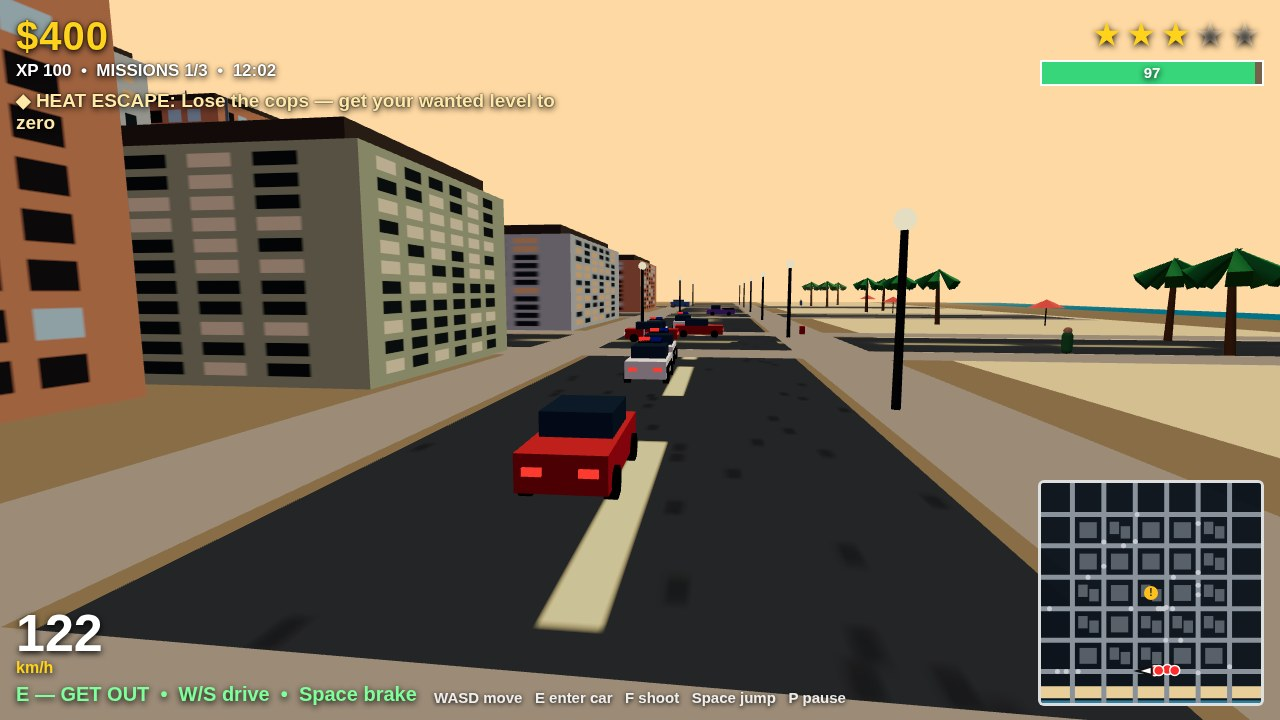
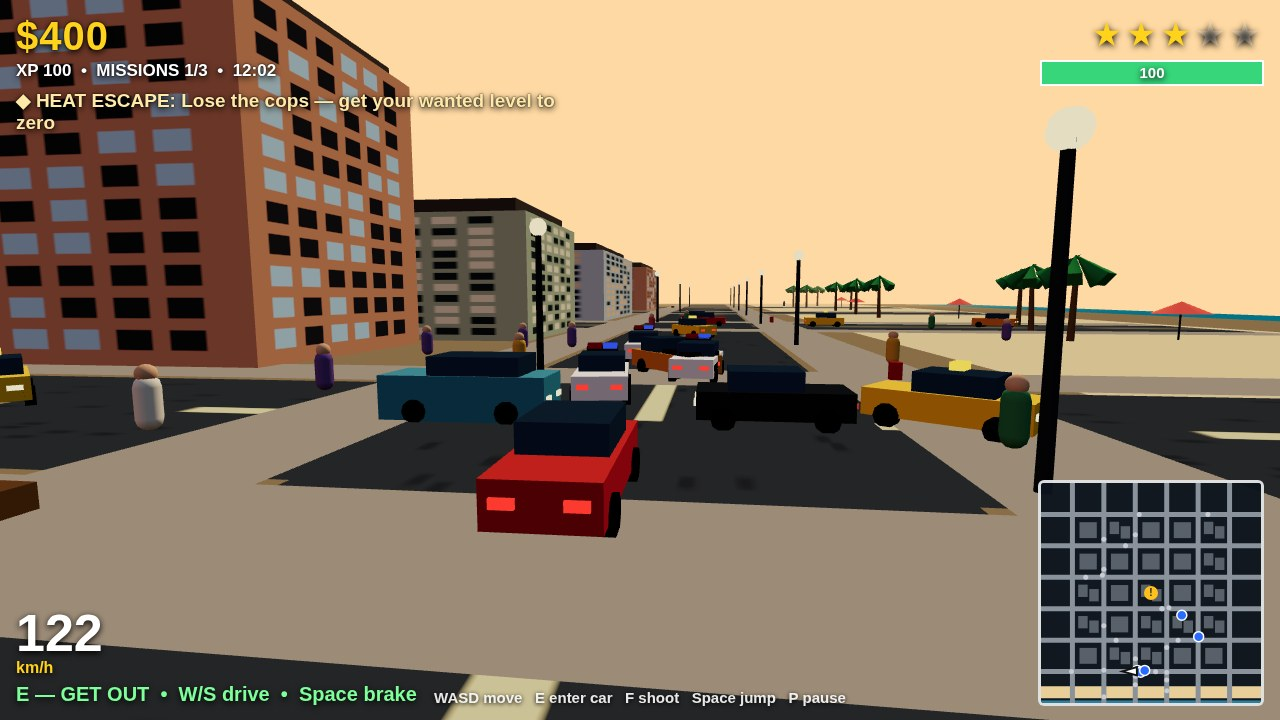
Solmar Bay r2: denser chase + close combat staging

diff --git a/game/src/shots.js b/game/src/shots.js
@@ -1,7 +1,7 @@
 // ?shot= staging: deterministic scene setup + autopilot that plays the real
 // rules from a fixed seed, then leaves the game ready for its screenshot.
 // Nothing here fakes a pose — every shot is the live simulation, advanced.
-import { WORLD } from './config.js';
+import { WORLD, COMBAT } from './config.js';
 import { stepWorld, startGame } from './world.js';
 import { spawnParkedCar, syncCarMesh } from './vehicles.js';
 import { spawnPoliceCar } from './police.js';
@@ -96,8 +96,8 @@ export function applyShotStaging(state, shotName, seed) {
   }
 
   if (shotName === 'chase') {
-    // Mid-mission-2 escape, downtown avenue: player driving, two cruisers
-    // flanking whole in frame, traffic and walkers packed around them.
+    // Mid-mission-2 escape, downtown avenue: player driving, cruisers
+    // stacked up behind him, traffic and walkers packed around them.
     state.money = 400; state.xp = 100; state.missionsDone = 1;
     startMission(state, 1);
     const sedan = spawnParkedCar(state, 'sedan', 90, 60, 0, 0xc23b2e);
@@ -108,22 +108,40 @@ export function applyShotStaging(state, shotName, seed) {
       waypoints: [[90, 150], [-90, 150], [-90, -150], [90, -150]],
       index: 0,
     };
-    spawnPoliceCar(state, 0, 0, 'front');
-    spawnPoliceCar(state, 0, 0, 'side');
     state.wanted = 3;
     state.wantedTimer = 0;
-    boostDensityNear(state, 90, 40, 10, 12);
-    // A couple more cruisers further back for depth.
-    spawnPoliceCar(state, 90, 120, null);
+    // Drive the escape FIRST. The boost and the cruisers must be staged
+    // around where the car ENDS UP, not where it started: boosting first
+    // leaves the whole crowd 100 m behind by capture time, and cruisers
+    // spawned before the drive fall behind (28 m/s vs the player's 34).
     driveFor(state, 9);
-    // Rear chase camera for the cover: the lens sits ahead of the car and
-    // looks back down the avenue, so the player car fills the frame with
-    // the whole pursuit stacked up behind it.
     const car = state.player.inCar;
     const fx = Math.sin(car.angle), fz = Math.cos(car.angle);
-    const px = Math.cos(car.angle), pz = -Math.sin(car.angle);
-    state.camera.position.set(car.x + fx * 14 + px * 3, 4.5, car.z + fz * 14 + pz * 3);
-    state.camera.lookAt(car.x - fx * 12, 1.5, car.z - fz * 12);
+    const sx = Math.cos(car.angle), sz = -Math.sin(car.angle);
+    // Three cruisers close behind the car, in the camera's backward view:
+    // [metres behind, metres to the side]. Speed matched to the player's
+    // car so they hold the gap instead of falling away before the shot.
+    const copSlots = [[10, -3.5], [16, 4], [24, -2]];
+    for (const [behind, side] of copSlots) {
+      const cop = spawnPoliceCar(state, car.x, car.z, null);
+      cop.x = car.x - fx * behind + sx * side;
+      cop.z = car.z - fz * behind + sz * side;
+      cop.angle = car.angle;
+      cop.speed = car.speed;
+      syncCarMesh(cop);
+    }
+    // Dense traffic + walkers packed around the final position.
+    boostDensityNear(state, car.x, car.z, 12, 16);
+    driveFor(state, 0.4);
+    // Rear chase camera for the cover: the lens sits ahead of the car and
+    // looks back down the avenue, so the player car fills the frame with
+    // the whole pursuit stacked up behind it. Shot mode renders once
+    // after staging — no live loop runs after this, so this framing holds.
+    const car2 = state.player.inCar;
+    const fx2 = Math.sin(car2.angle), fz2 = Math.cos(car2.angle);
+    const px2 = Math.cos(car2.angle), pz2 = -Math.sin(car2.angle);
+    state.camera.position.set(car2.x + fx2 * 11 + px2 * 2.5, 4.0, car2.z + fz2 * 11 + pz2 * 2.5);
+    state.camera.lookAt(car2.x - fx2 * 12, 1.5, car2.z - fz2 * 12);
     return;
   }
 
@@ -137,34 +155,51 @@ export function applyShotStaging(state, shotName, seed) {
     state.wanted = 2;
     state.wantedTimer = 0;
     state.player.health = 83;
-    boostDensityNear(state, 150, -150, 2, 3);
+    boostDensityNear(state, 150, -150, 3, 5);
     // Walk the player onto the marker so the fight spawns, then fight.
     setPlayerOnFoot(state, 150, -150, 0);
     driveFor(state, 0.6);
-    // Aim + shoot in bursts for the rest of the staging.
-    for (let i = 0; i < 300; i++) {
+    // A short real fight — the old 5 s loop killed two Vipers and left the
+    // frame empty. Then restage the fight close to the lens.
+    for (let i = 0; i < 90; i++) {
       aimAtNearestEnemy(state);
       stepWorld(state, 1 / 60);
     }
+    // Restage: player at the crates, three Vipers flanking close in front.
+    setPlayerOnFoot(state, 150, -132, 0);
+    while (state.enemies.length < 3) state.combat.spawnEnemy(state, 150, -150);
+    // [x, z, fire delay]: nearest Viper 6 m dead ahead on the crosshair,
+    // two more flanking at ~9.5 m. Fire delays are staggered so all three
+    // muzzle flashes land in the last few steps before the screenshot.
+    const viperSpots = [[150, -126, 0.005], [144, -124.5, 0.02], [156, -124.5, 0.04]];
+    const placeVipers = (withFire) => {
+      for (let i = 0; i < 3; i++) {
+        const e = state.enemies[i];
+        const [ex, ez, ft] = viperSpots[i];
+        e.x = ex; e.z = ez;
+        e.angle = Math.atan2(state.player.x - ex, state.player.z - ez);
+        e.health = COMBAT.enemyHealth;
+        e.fireTimer = withFire ? ft : 99; // hold fire until the camera settles
+        e.muzzleT = 0;
+        e.mesh.position.set(ex, 0, ez);
+        e.mesh.rotation.y = e.angle;
+      }
+    };
+    placeVipers(false);
+    // Let the chase camera lerp onto the new position (it lags the teleport).
+    for (let i = 0; i < 30; i++) stepWorld(state, 1 / 60);
+    // Snap the Vipers back to their marks (they strafed during the settle),
+    // then let them open fire on the very last steps so the muzzle flashes
+    // are alive in the screenshot — and fire the player's pistol too.
+    placeVipers(true);
+    state.lastShotT = 0;
+    stepWorld(state, 1 / 60);
+    stepWorld(state, 1 / 60);
+    stepWorld(state, 1 / 60);
+    playerShoot(state);
     // Keep the escape reward on screen as proof of progression.
     state.missionBanner = 'HEAT ESCAPE COMPLETE  +$600  +150 XP';
     state.missionBannerT = 99;
-    // Final frame: put the last Viper in front of the player, facing him,
-    // downtown behind him — and let him fire on the very last step so the
-    // muzzle flash is alive in the screenshot.
-    const last = state.enemies[0];
-    if (last) {
-      setPlayerOnFoot(state, 150, -132, 0);
-      last.x = 150; last.z = -118;
-      last.angle = Math.PI;
-      last.mesh.position.set(150, 0, -118);
-      last.mesh.rotation.y = Math.PI;
-      last.fireTimer = 0.02;
-      state.lastShotT = 0;
-      stepWorld(state, 1 / 60);
-      stepWorld(state, 1 / 60);
-      playerShoot(state);
-    }
     return;
   }
 
